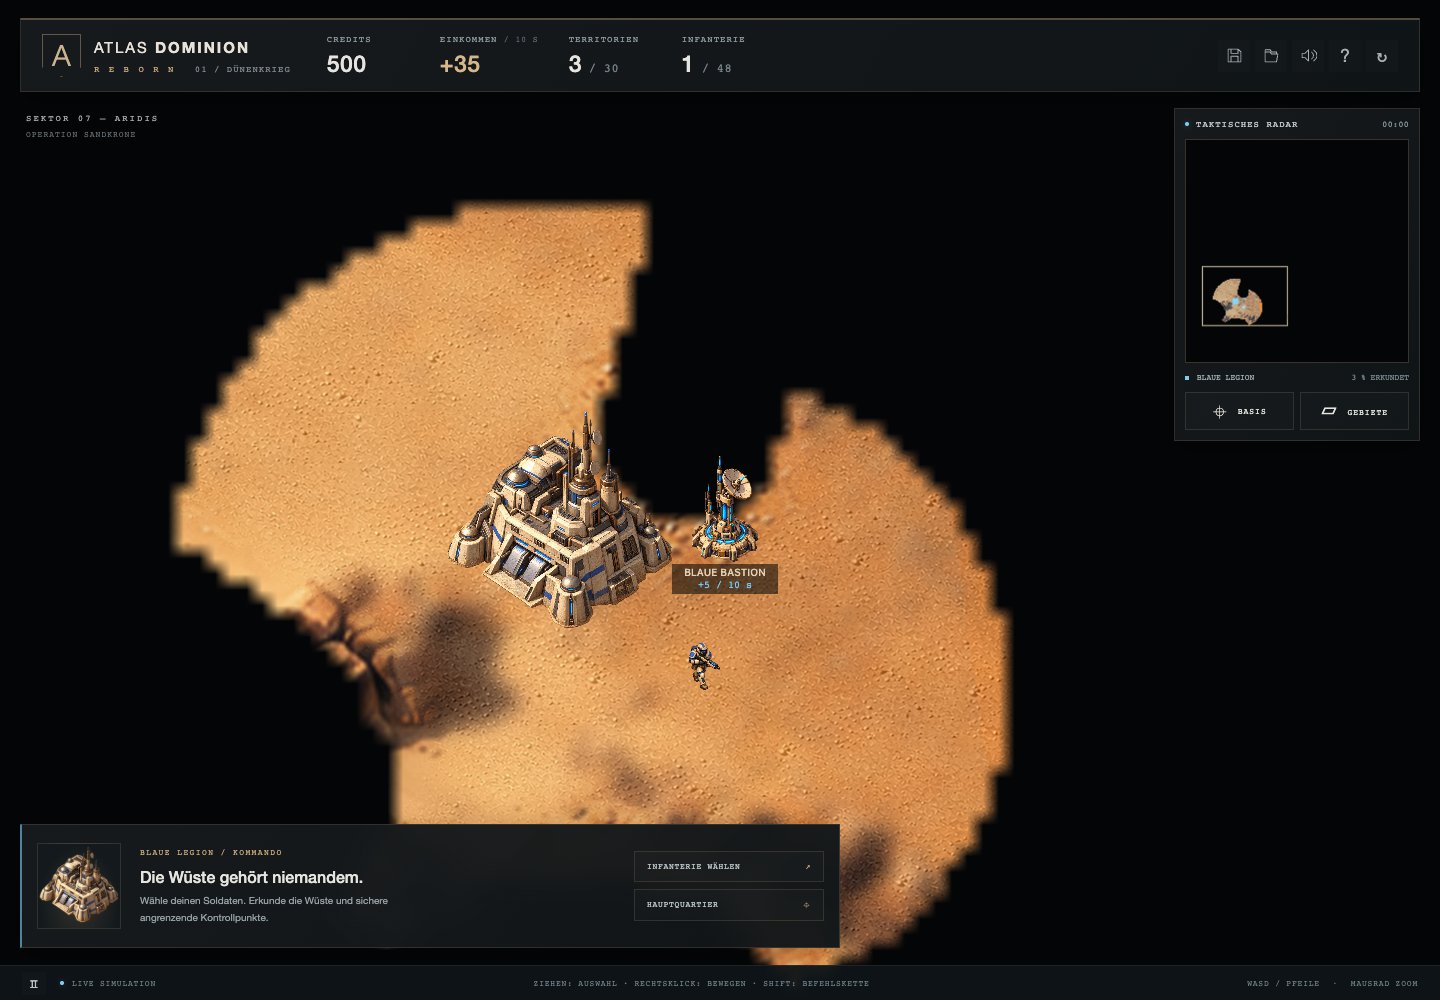
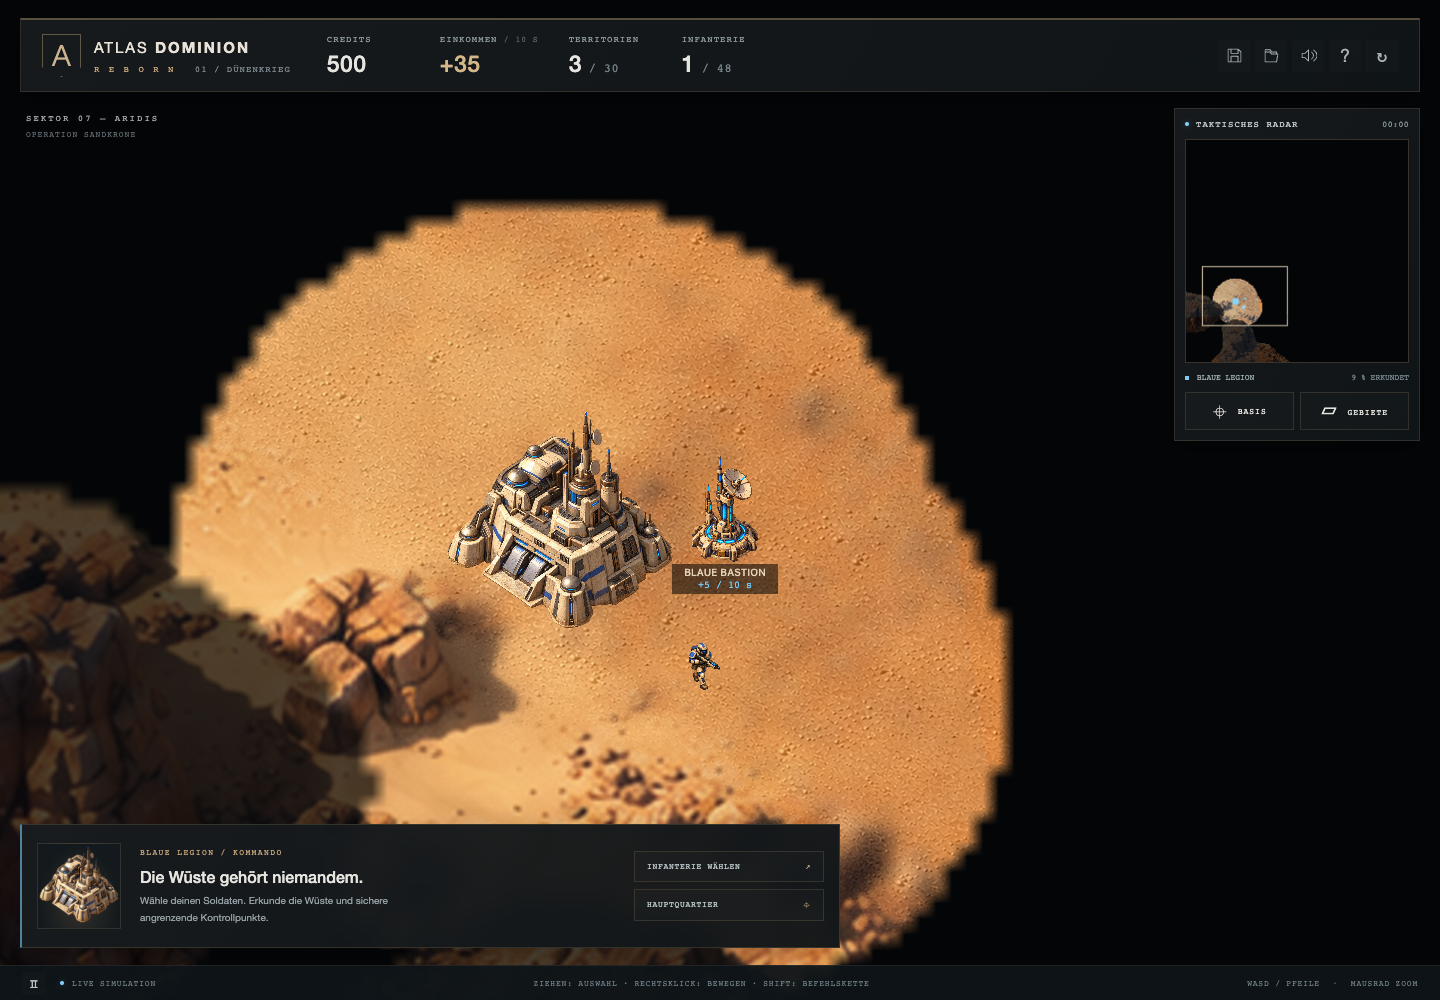
fix(reborn): remove fog holes and preserve mountain relief

diff --git a/src/reborn/world.ts b/src/reborn/world.ts
@@ -23,7 +23,8 @@ const ROCKS = [
   [[651,802],[669,798],[682,812],[680,829],[659,834],[647,821]],
   [[814,510],[839,503],[852,516],[847,535],[827,539],[813,528]],
 ];
-let navigationCache:Uint8Array|undefined;
+interface TerrainCache { blocked:Uint8Array; opaque:Uint8Array; cliffs:Int16Array; components:Int16Array }
+let navigationCache:TerrainCache|undefined;
 export function inside(p: Point, polygon: Point[]): boolean {
   let result = false;
   for (let i=0,j=polygon.length-1;i<polygon.length;j=i++) {
@@ -37,8 +38,16 @@ export class World {
   readonly cell = this.size / RULES.grid;
   readonly rocks: Point[][] = ROCKS.map(poly=>poly.map(([x,y])=>({x:x*3,y:y*3})));
   readonly blocked = new Uint8Array(RULES.grid ** 2);
+  /** Physical tall relief, without navigation clearance or low rubble. */
+  readonly opaque = new Uint8Array(RULES.grid ** 2);
+  readonly cliffIds = new Int16Array(RULES.grid ** 2).fill(-1);
+  readonly components = new Int16Array(RULES.grid ** 2).fill(-1);
+  readonly cliffCells:number[][]=Array.from({length:9},()=>[]);
   constructor() {
-    if(navigationCache){this.blocked.set(navigationCache);return;}
+    if(navigationCache){
+      this.blocked.set(navigationCache.blocked);this.opaque.set(navigationCache.opaque);this.cliffIds.set(navigationCache.cliffs);this.components.set(navigationCache.components);
+      this.cliffIds.forEach((id,i)=>{if(id>=0)this.cliffCells[id].push(i);});return;
+    }
     for(let i=0;i<this.blocked.length;i++) {
       const p=this.center(i);
       // Include the entire navigation cell plus the soldier's body clearance.
@@ -46,8 +55,22 @@ export class World {
       const r=this.cell*.5+RULES.infantry.radius;
       const samples=[p,...[-r,0,r].flatMap(dx=>[-r,0,r].map(dy=>({x:p.x+dx,y:p.y+dy})))];
       if(this.rocks.some(poly=>samples.some(q=>inside(q,poly))))this.blocked[i]=1;
+      const cliff=this.rocks.slice(0,9).findIndex(poly=>inside(p,poly));
+      if(cliff>=0){this.opaque[i]=1;this.cliffIds[i]=cliff;this.cliffCells[cliff].push(i);}
     }
-    navigationCache=this.blocked.slice();
+    // Static connectivity keeps move destinations out of isolated terrain pockets.
+    let component=0;
+    for(let i=0;i<this.blocked.length;i++)if(!this.blocked[i]&&this.components[i]<0){
+      const queue=[i];this.components[i]=component;
+      for(let head=0;head<queue.length;head++){
+        const at=queue[head],x=at%RULES.grid,y=Math.floor(at/RULES.grid);
+        for(const [dx,dy] of [[-1,0],[1,0],[0,-1],[0,1]]){
+          const nx=x+dx,ny=y+dy;if(nx<0||ny<0||nx>=RULES.grid||ny>=RULES.grid)continue;
+          const next=ny*RULES.grid+nx;if(!this.blocked[next]&&this.components[next]<0){this.components[next]=component;queue.push(next);}
+        }
+      }component++;
+    }
+    navigationCache={blocked:this.blocked.slice(),opaque:this.opaque.slice(),cliffs:this.cliffIds.slice(),components:this.components.slice()};
   }
   index(p: Point): number {
     const x=Math.floor(p.x/this.cell), y=Math.floor(p.y/this.cell);
@@ -58,15 +81,18 @@ export class World {
     const i=this.index(p);
     return i>=0&&!this.blocked[i]&&!obstacles.some(o=>Math.hypot(p.x-o.x,p.y-o.y)<o.radius+RULES.infantry.radius);
   }
-  nearest(p: Point, obstacles: {x:number;y:number;radius:number}[]=[], occupied: Point[]=[]): Point | null {
-    if(this.walkable(p,obstacles)&&occupied.every(u=>Math.hypot(u.x-p.x,u.y-p.y)>23)) return {...p};
+  nearest(p: Point, obstacles: {x:number;y:number;radius:number}[]=[], occupied: Point[]=[], from?:Point): Point | null {
+    const start=from?this.index(from):-1,component=start>=0?this.components[start]:-1;
+    const valid=(q:Point)=>this.walkable(q,obstacles)&&(component<0||this.components[this.index(q)]===component)&&occupied.every(u=>Math.hypot(u.x-q.x,u.y-q.y)>23);
+    if(valid(p))return {...p};
     const origin=this.index({x:Math.max(0,Math.min(this.size-1,p.x)),y:Math.max(0,Math.min(this.size-1,p.y))});
-    for(let r=1;r<22;r++) for(let y=-r;y<=r;y++) for(let x=-r;x<=r;x++) {
+    const search=from?RULES.grid:Math.ceil(700/this.cell);
+    for(let r=1;r<search;r++) for(let y=-r;y<=r;y++) for(let x=-r;x<=r;x++) {
       if(Math.abs(x)!==r&&Math.abs(y)!==r)continue;
       const cx=origin%RULES.grid+x,cy=Math.floor(origin/RULES.grid)+y;
       if(cx<0||cy<0||cx>=RULES.grid||cy>=RULES.grid)continue;
       const q=this.center(cy*RULES.grid+cx);
-      if(this.walkable(q,obstacles)&&occupied.every(u=>Math.hypot(u.x-q.x,u.y-q.y)>23))return q;
+      if(valid(q))return q;
     }
     return null;
   }
@@ -90,8 +116,18 @@ export class World {
     for(let i=1;i<=steps;i++) if(!this.walkable({x:a.x+(b.x-a.x)*i/steps,y:a.y+(b.y-a.y)*i/steps},obstacles))return false;
     return true;
   }
+  /** The first opaque face is visible; only terrain beyond that face is hidden. */
+  sightLine(a:Point,b:Point):boolean{
+    const end=this.index(b);if(end<0)return false;
+    const steps=Math.max(1,Math.ceil(Math.hypot(a.x-b.x,a.y-b.y)/(this.cell*.4)));
+    for(let i=1;i<=steps;i++){
+      const index=this.index({x:a.x+(b.x-a.x)*i/steps,y:a.y+(b.y-a.y)*i/steps});
+      if(index<0)return false;if(index===end)return true;if(this.opaque[index])return false;
+    }
+    return true;
+  }
   path(start: Point, target: Point, obstacles: {x:number;y:number;radius:number}[]=[]): Point[] {
-    const end=this.nearest(target,obstacles);
+    const end=this.nearest(target,obstacles,[],start);
     if(!end)return [];
     if(this.line(start,end,obstacles))return [end];
     const s=this.index(start), goal=this.index(end), n=this.blocked.length;

diff --git a/src/reborn/simulation.ts b/src/reborn/simulation.ts
@@ -76,7 +76,7 @@ export class Simulation {
     const width=Math.ceil(Math.sqrt(members.length));let accepted=0;
     members.forEach((u,i)=>{
       const offset=members.length>1?{x:((i%width)-(width-1)/2)*27,y:(Math.floor(i/width)-(width-1)/2)*27}:{x:0,y:0};
-      const target=this.world.nearest({x:order.x+offset.x,y:order.y+offset.y},this.obstacles());if(!target)return;
+      const target=this.world.nearest({x:order.x+offset.x,y:order.y+offset.y},this.obstacles(),[],u);if(!target)return;
       const next:Order={...order,...target};
       if(append){if(u.orders.length<32)u.orders.push(next);else return;}
       else {u.orders=[next];u.path=[];u.repath=0;}
@@ -93,14 +93,21 @@ export class Simulation {
         ...this.bases.filter(b=>b.owner===owner&&b.hp>0).map(b=>({...b,sight:RULES.headquarters.sight}))];
       for(const s of sources){
         const gx=Math.floor(s.x/this.world.cell),gy=Math.floor(s.y/this.world.cell),r=Math.ceil(s.sight/this.world.cell);
+        const close='queue' in s ? RULES.headquarters.radius+this.world.cell*2 : this.world.cell*2+RULES.infantry.radius;
         for(let y=Math.max(0,gy-r);y<=Math.min(RULES.grid-1,gy+r);y++)for(let x=Math.max(0,gx-r);x<=Math.min(RULES.grid-1,gx+r);x++){
           const i=y*RULES.grid+x,p=this.world.center(i);
-          // Reveal the cliff face itself, but never terrain behind it.
-          if(!visible[i]&&distance(s,p)<=s.sight){const d=distance(s,p),q=d>this.world.cell?{x:p.x+(s.x-p.x)*this.world.cell/d,y:p.y+(s.y-p.y)*this.world.cell/d}:s;
-            if(this.world.line(s,q))visible[i]=1;}
+          const d=distance(s,p);
+          if(!visible[i]&&d<=s.sight&&(d<=close||this.world.sightLine(s,p)))visible[i]=1;
         }
+        // A source always reveals its exact tile, including after save migration.
+        const ownCell=this.world.index(s);if(ownCell>=0)visible[ownCell]=1;
       }
-      for(let i=0;i<visible.length;i++)if(visible[i])this.explored[owner][i]=1;
+      const discovered=new Set<number>();
+      for(let i=0;i<visible.length;i++)if(visible[i]){this.explored[owner][i]=1;const cliff=this.world.cliffIds[i];if(cliff>=0)discovered.add(cliff);}
+      // Seeing a cliff identifies its complete terrain surface. Its inaccessible
+      // interior stays remembered terrain, rather than an impossible black hole.
+      // This never grants current visibility to enemies behind the cliff.
+      for(const id of discovered)for(const cell of this.world.cliffCells[id])this.explored[owner][cell]=1;
       for(const b of this.bases)if(this.canSee(owner,b)){
         const memory={id:b.id,owner:b.owner,x:b.x,y:b.y,hp:b.hp,territory:b.territory};
         const i=this.memories[owner].findIndex(m=>m.id===b.id);if(i<0)this.memories[owner].push(memory);else this.memories[owner][i]=memory;

diff --git a/src/reborn/renderer.ts b/src/reborn/renderer.ts
@@ -79,7 +79,7 @@ export class Renderer {
     tc.drawImage(this.terrain,445/1254*this.terrain.width,675/1254*this.terrain.height,190/1254*this.terrain.width,190/1254*this.terrain.height,0,0,190,190);
     const detail=tc.getImageData(0,0,190,190).data;
     tc.filter='blur(4px)';tc.drawImage(tile,0,0);const detailLow=tc.getImageData(0,0,190,190).data;
-    const grid=RULES.grid,dist=Float32Array.from(this.game.world.blocked,v=>v?0:1e5);
+    const grid=RULES.grid,dist=Float32Array.from(this.game.world.opaque,v=>v?0:1e5);
     for(let y=0;y<grid;y++)for(let x=0;x<grid;x++){const i=y*grid+x;if(x)dist[i]=Math.min(dist[i],dist[i-1]+1);if(y)dist[i]=Math.min(dist[i],dist[i-grid]+1);}
     for(let y=grid-1;y>=0;y--)for(let x=grid-1;x>=0;x--){const i=y*grid+x;if(x<grid-1)dist[i]=Math.min(dist[i],dist[i+1]+1);if(y<grid-1)dist[i]=Math.min(dist[i],dist[i+grid]+1);}
     const size=surface.width;let seed=92531;
@@ -88,7 +88,9 @@ export class Renderer {
       for(let x=0;x<size;x++){
         const gx=Math.min(grid-1,x/size*grid),ix=Math.floor(gx),fx=gx-ix,nx=Math.min(ix+1,grid-1);
         const d=(dist[iy*grid+ix]*(1-fx)+dist[iy*grid+nx]*fx)*(1-fy)+(dist[ny*grid+ix]*(1-fx)+dist[ny*grid+nx]*fx)*fy;
-        const blend=clamp((d-1)/4,0,1),i=(y*size+x)*4;
+        // Preserve the complete rock face and its cast relief, including outside
+        // the collision contour. The old narrow mask blurred mountain edges.
+        const blend=clamp((d-8)/6,0,1),i=(y*size+x)*4;
         const tx=(x+Math.floor(y/128)*73)%190,ty=(y+Math.floor(x/128)*59)%190,ti=(ty*190+tx)*4;
         const material=((detail[ti]+detail[ti+1]+detail[ti+2]-detailLow[ti]-detailLow[ti+1]-detailLow[ti+2])/3)*.8;
         seed=(Math.imul(seed,1664525)+1013904223)>>>0;const grain=(seed>>>29)*.45-1.5;

diff --git a/docs/reborn/QA.md b/docs/reborn/QA.md
@@ -2,15 +2,17 @@
 
 Geprüft mit TypeScript und lokalem Chrome auf macOS. Der Entwicklungsserver ist ausschließlich an `127.0.0.1` gebunden.
 
-- 388 Node-Tests bestanden: neue RTS-Simulation sowie erhaltene Simulation und Infrastruktur. Die bisherigen DOM-Prüfungen beziehen sich nun auf die archivierte Europaversion; der HTTP-Test prüft beide Oberflächen und die neuen Module/Assets.
-- 16 gezielte Reborn-Tests: exakter Start; deterministische Welt; Wege zu allen 30 Kontrollpunkten ohne Fels-/Gebäudekollision; Erkundung und achtsekündige Eroberung; unterbrochene und nicht angrenzende Einnahmen; Einkommen einschließlich Pause und Save/Load; Produktion und Erstattung; Befehlsketten und Stop; Kampf und Angriffsbewegung; blockierte Sicht-/Schusslinien; eigenständige KI-Produktion/Expansion; gespeicherter Produktions-/KI-/Erkundungszustand; Sieg und Niederlage; echte Hauptquartierbelagerung mit anschließender Übernahme; KI ohne Wissen über verborgene Spielerpositionen; Gegenwehr während eines Marschbefehls mit anschließender Fortsetzung der Befehlsfolge; freie Gebäudegrundfläche und vollständige Hindernisränder; Migration bisheriger Spielstände auf das feinere Navigations-/Sichtraster. Mehrere Aspekte teilen sich einen Test.
-- Sechs Browser-Tests bestanden, ohne Bildantworten zu ersetzen. Befehle erfolgen über tatsächliche Maus-/Tastaturereignisse. Lange Spielabschnitte laufen in festen Simulationsschritten beschleunigt; ihre Ergebnisse werden nicht künstlich gesetzt.
+- 392 Node-Tests bestanden: neue RTS-Simulation sowie erhaltene Simulation und Infrastruktur. Die bisherigen DOM-Prüfungen beziehen sich nun auf die archivierte Europaversion; der HTTP-Test prüft beide Oberflächen und die neuen Module/Assets.
+- 20 gezielte Reborn-Tests: exakter Start; deterministische Welt; Wege zu allen 30 Kontrollpunkten ohne Fels-/Gebäudekollision; Erkundung und achtsekündige Eroberung; unterbrochene und nicht angrenzende Einnahmen; Einkommen einschließlich Pause und Save/Load; Produktion und Erstattung; Befehlsketten und Stop; Kampf und Angriffsbewegung; blockierte Sicht-/Schusslinien; eigenständige KI-Produktion/Expansion; gespeicherter Produktions-/KI-/Erkundungszustand; Sieg und Niederlage; echte Hauptquartierbelagerung mit anschließender Übernahme; KI ohne Wissen über verborgene Spielerpositionen; Gegenwehr während eines Marschbefehls mit anschließender Fortsetzung der Befehlsfolge; freie Gebäudegrundfläche und vollständige Hindernisränder; Migration bisheriger Spielstände auf das feinere Navigations-/Sichtraster. Zusätzlich: kein schwarzes Loch neben dem Hauptquartier, Nahbereich um eigene Sichtquellen, erforschbare Felsinnenflächen ohne gegnerische Sichtfreigabe und erreichbare Ziele bei Klicks tief ins Gebirge. Mehrere Aspekte teilen sich einen Test.
+- Acht Browser-Tests bestanden, ohne Bildantworten zu ersetzen. Befehle erfolgen über tatsächliche Maus-/Tastaturereignisse. Lange Spielabschnitte laufen in festen Simulationsschritten beschleunigt; ihre Ergebnisse werden nicht künstlich gesetzt.
 
 Der Kampagnentest startet mit einem Soldaten und 500 Credits, sichert Nomadenpfad, erhöht das Einkommen, kehrt zur Basis zurück, bildet vier Soldaten aus, markiert die Gruppe mit einem Auswahlrahmen, expandiert durch Zentralpass und Alte Trasse, kämpft gegen die aktive KI und übernimmt deren Kiesebene. Er speichert danach in IndexedDB, lädt die Seite vollständig neu und prüft Credits, Besitzer, Einheiten-IDs, Erkundung und Spielzeit beim Fortsetzen. Keine JavaScript-Fehler.
 
 Weitere Browserprüfungen: Minikarte klicken/ziehen; Kamera per Tastatur; am Mauszeiger verankerter Zoom; Shift-Befehlsfolge; Stop; Angriffsbewegung; Abwählen; Gebiets-Overlay; Pause; schwarz bleibende Pixel an verborgenen Gegnerpositionen in Hauptkarte und Radar; erhaltene dunkle Erkundung nach Weggehen; Hilfe, Neustart und bedienbare 800 × 650 Ansicht.
 
 Die beiden zusätzlichen Browserfälle prüfen den tatsächlich erzeugten Audiosignalpegel, Stummschaltung und gespeicherte Lautstärke sowie transparente Animationsframes, sichtbare Gangänderung, automatisch erwiderten Kampfschaden, erhaltenen Marschbefehl und die Abwesenheit gefüllter Schattenellipsen. Die Zeichenreihenfolge legt den Geländenebel unter anhand ihrer Bodenposition sichtbare Objekte, damit hohe Masten nicht vom Nebel abgeschnitten werden.
+
+Zwei weitere Regressionstests messen sichtbare Terrainpixel am gemeldeten schwarzen Fleck (960, 2610), unter Infanterie sowie auf dem Radar und prüfen die vollständige Erkundung entdeckter Felsformationen. Ein Vergleich der gerenderten Bergkante mit der Quelle lässt maximal die feine Körnung als Abweichung zu; die Sand-Weichzeichnung darf dort nicht einwirken. [Sichtkorrektur](visibility-fix.png).
 
 Die Bastion ist eine erzeugte Nachbildung im passenden Stil. Die vom Nutzer benannte Originaldatei war durch macOS geschützt; sie wurde nicht als kopiertes Original ausgegeben. Die Nachbildung liegt als reguläre Projektdatei vor und wird blau, rot oder neutral eingefärbt. Herkunft und Prompts stehen in [ART_ASSETS.md](ART_ASSETS.md).
 

diff --git a/docs/reborn/ARCHITECTURE.md b/docs/reborn/ARCHITECTURE.md
@@ -19,7 +19,9 @@ Canvas 2D nutzt die vorhandene Browserumgebung und vermeidet eine neue Engine-Ab
 
 Die feinere Wüstengrafik definiert weiterhin das zusammenhängende Relief. Die Bodenmaterial-Darstellung trennt dieses Relief von der Körnung: auf freien Flächen werden vergrößerte Steine geglättet und mit einer feinen, von Helligkeitsverläufen bereinigten Sandstruktur aus dem Bild kombiniert. Hügel bleiben erhalten. Handgezeichnete Felskonturen beziehen sich auf die originalen 1254 × 1254 Pixel und werden mit Faktor drei in Weltkoordinaten übertragen. Navigationszellen prüfen ihre gesamte Fläche einschließlich Körperabstand. Gebäude suchen einen vollständig freien Aufstellplatz. Territoriumsgrenzen nutzen gemeinsame, deterministisch versetzte Eckpunkte. Das interne Raster erscheint nicht als Landschaftsgitter.
 
-Sicht wird alle 200 Simulationsmillisekunden aus tatsächlichen Quellen und einer Gelände-Sichtlinie berechnet. Beide Fraktionen haben eigene sichtbare und erkundete Zellen. Unbekannte Flächen sind schwarz, bekannte Flächen dunkel; verborgene gegnerische Einheiten werden weder im Hauptbild noch auf dem Radar gezeichnet. Bereits gesichtete Gebäude haben eine gespeicherte, veraltbare Erinnerung. Die visuelle Nebelkante wird beim Skalieren weich interpoliert; die logische Sicht bleibt rastergenau.
+Sicht wird alle 200 Simulationsmillisekunden aus tatsächlichen Quellen berechnet. Eine eigene Höhenmaske beschreibt hohe Felsen; die Wegfindungsmaske enthält zusätzlich niedrige Geröllstellen und Körperabstände, die keinen Sichtschatten werfen. Der Nahbereich und die genaue Zelle jeder eigenen Sichtquelle werden immer sichtbar. Die erste hohe Felsfläche beendet eine Sichtlinie erst hinter ihrer Oberfläche. Bei ihrer Entdeckung wird die gesamte zusammenhängende Felsformation als Gelände erkundet, ohne Sicht auf Gegner dahinter zu gewähren. Beide Fraktionen haben eigene sichtbare und erkundete Zellen. Unbekannte Flächen sind schwarz, bekannte Flächen dunkel; verborgene gegnerische Einheiten werden weder im Hauptbild noch auf dem Radar gezeichnet. Bereits gesichtete Gebäude haben eine gespeicherte, veraltbare Erinnerung. Die visuelle Nebelkante wird beim Skalieren weich interpoliert; die logische Sicht bleibt rastergenau.
+
+Statische Zusammenhangskomponenten der Navigation verhindern Ziele in isolierten Geländetaschen. Für Befehle reicht die Suche nach einem freien Ziel über das ganze Raster; die frühere feste Zellzahl hatte nach Verfeinerung des Rasters die Suchweite versehentlich halbiert. Tiefe Felsziele werden dadurch auf einen erreichbaren Randpunkt umgesetzt. Die Sandglättung lässt die Felsflächen einschließlich eines Randbereichs unverändert, damit keine weichen, verschwommenen Bergkanten entstehen.
 
 Angriffsbewegungen halten zum Schießen und setzen anschließend ihren Auftrag fort. Angegriffene Infanterie erwidert während eines normalen Bewegungsbefehls das Feuer auf den tatsächlichen sichtbaren Angreifer. Der Befehl und seine Warteschlange bleiben erhalten; ohne Bedrohung geht es weiter. Manuelle Ziele werden nur bei eigener Sicht verfolgt; bei Sichtverlust bleibt die zuletzt befohlene Position. Schüsse werden an Felsen blockiert. Einheiten lösen Überlappungen symmetrisch auf. Die KI bezahlt ihre Einheiten, expandiert entlang ihrer Grenzen und reagiert zur Verteidigung nur auf selbst gesichtete Spielertruppen in der Nähe. Sie erhält weder freie Credits noch Wissen über verborgene Infanterie.
 

diff --git a/README.md b/README.md
@@ -30,9 +30,9 @@ Die frühere Europaversion bleibt unter **http://127.0.0.1:8095/legacy/index.htm
 
 ```sh
 npm run typecheck
-npm run test:reborn    # 16 gezielte Simulationstests
+npm run test:reborn    # 20 gezielte Simulationstests
 npm test              # Gesamte Suite, einschließlich Archiv und HTTP
-npm run test:browser   # Sechs Chrome-Tests für Gameplay, Grafik und Audio
+npm run test:browser   # Acht Chrome-Tests für Gameplay, Sicht, Grafik und Audio
 ```
 
 Für Browser-Tests einmalig `npm ci --prefix tests/browser` ausführen. Chrome ist lokal voreingestellt; `ATLAS_BROWSER_CHANNEL=chromium` verwendet Playwright Chromium. Ein bereits laufender Server kann über `ATLAS_BASE_URL` angegeben werden.
@@ -46,6 +46,8 @@ TypeScript, Canvas 2D, feste 20 Simulationsschritte pro Sekunde, A*, räumliche 
 Die Original-PNGs bleiben unverändert in `src/assets/reborn/`: `desert.png`, `infantry.png`, `headquarters.png`. Die feinere Terrainfassung liegt in `desert-fine.png`, der transparente Laufatlas in `infantry-walk.png`. Die Bastion wird aus `src/assets/reborn/bastion.png` geladen und je Besitzer blau, rot oder unbeleuchtet dargestellt. Der Laufatlas kombiniert 32 Posen mit kontinuierlicher Beinbewegung; die Füße sind am Boden verankert. Künstliche Bodenschatten werden nicht gezeichnet.
 
 Der Boden trennt großräumiges Relief und feine Sandstruktur. Hügel und Felsen bleiben an ihren Kartenpositionen und blockieren das feinere Navigationsraster. Angegriffene Infanterie erwidert das Feuer auch während eines Marschbefehls und setzt danach ihren ursprünglichen Weg fort. Der Soundregler oben bietet Schüsse, Schritte, Funkbestätigungen und Wüstenwind; Ton startet mit der ersten Interaktion.
+
+Die Sicht unterscheidet hohe Felsen von niedrigen Geröllhindernissen. Eigene Einheiten und Gebäude decken ihre unmittelbare Umgebung immer auf. Beim Entdecken einer Felsformation wird ihre unbetretbare Oberfläche als Gelände bekannt; Gegner dahinter bleiben verborgen. Ein Bewegungsziel tief im Berg wird auf einen erreichbaren Randpunkt gelegt. Die Felsdetails werden von der Glättung des Sandbodens ausgespart. Bestehende Spielstände bleiben ladbar.
 
 [Bildquellen und Generierungsprompts](docs/reborn/ART_ASSETS.md)
 
